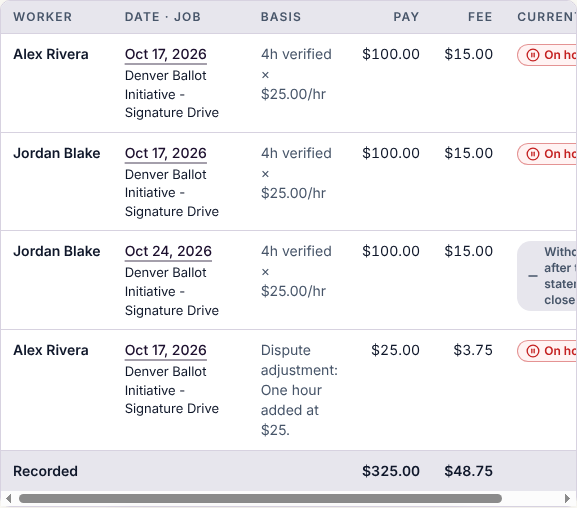
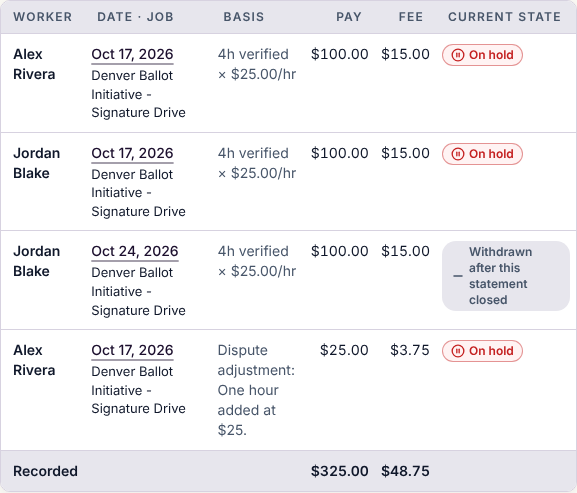
Evidence: statement fits from 640; the dock query without the hover condition
Claude-Session: https://claude.ai/code/session_01M5jonG7B326Ty4GJKyZ5gK

diff --git a/docs/design/hero-board/evidence/tablet-nav-2026-11-09/README.md b/docs/design/hero-board/evidence/tablet-nav-2026-11-09/README.md
@@ -8,7 +8,7 @@ All evidence is the running app on the local test databases, in Chromium with to
 
 Between 1024 and 1279 the worker's top bar shows icons only. Their names are tooltips, which a finger never sees, and Jobs and Work were both briefcases (Work is now Footprints, section 4).
 
-Under `(hover: none) and (pointer: coarse)` the worker now keeps the labelled dock in that band. The top bar's links step aside; the header keeps its bell, settings and theme. Elsewhere nothing changes:
+Under `(pointer: coarse)` the worker now keeps the labelled dock in that band. The top bar's links step aside; the header keeps its bell, settings and theme. Elsewhere nothing changes:
 - mouse desktops keep the #113 top bar;
 - from 1280, every pointer gets the labelled top bar;
 - organization roles keep their rail.
@@ -57,6 +57,7 @@ The More sheet used to be hidden from 1024 by a width rule. On a touch tablet, M
 - **An iPad with a trackpad.** Not tested. Safari may keep reporting `none`/`coarse` (dock) or switch to `hover`/`fine` (top bar, whose tooltips the trackpad can show). Either way there is navigation.
 - **Split View, Slide Over and Stage Manager.** A window narrower than 1024 already had the phone dock; other widths follow the same rules.
 - **`hover: none` with `pointer: fine`.** The query fails, so the top bar shows.
+- **Touch tablets that report hover (Nov 10).** The query first also asked for `hover: none`. Chromium on some Samsung tablets reports `hover: hover` on a touchscreen ([MDN's note on `hover`](https://developer.mozilla.org/docs/Web/CSS/@media/hover), [a write-up](https://www.ctrl.blog/entry/css-media-hover-samsung.html)), which would have left them on the icon-only top bar. The query now asks only for a coarse primary pointer. Not measured: Chromium here would not emulate a coarse pointer that hovers, so this rests on the rule's logic. Re-checked at `1d60de9`: with touch the dock shows and the top bar's links go; with a mouse the top bar stays.
 
 ### Not changed
 
@@ -132,12 +133,12 @@ The heights in this table come from a console run of `for-astra/statement-layout
 - A correction's reference and a receipt number never break at their hyphens.
 - The total row spans three columns. The CSV is unchanged, with its own `project` column.
 
-Measured with `statement-after.mjs` at `461f225` (`statement/statement-after.json`). Print is measured after the print rules apply.
+Measured with `statement-after.mjs` at `1d60de9` (`statement/statement-after.json`). Print is measured after the print rules apply.
 
 | Width | Table | Current state | Job title |
 | :--- | :--- | :--- | :--- |
 | 390 (stacked rows) | Fits | Visible | 1 line |
-| 640 | Overflows by 67px (145 before) | Behind the sideways scroll | 3 lines |
+| 640 | Fits (145px over before) | Visible | 3 lines |
 | 768 | Fits (2px over before) | Visible | 3 lines (6 before); 470px tall (637 before) |
 | 1024 | Fits | Visible | 2 lines (5 before) |
 | 1440 | Fits | Visible | 2 lines (5 before) |
@@ -146,7 +147,7 @@ Measured with `statement-after.mjs` at `461f225` (`statement/statement-after.jso
 The job line keeps a 7rem minimum. An 8rem minimum gave two-line titles at 768 but pushed Current state 3px past the box in print. With no minimum, titles took three lines even at 1024 and 1440.
 
 **Still imperfect:**
-- **640 to 704px.** The sweep in `statement-after.json` shows Current state needs the table's sideways scroll there; from 712 the table fits. That band is narrower than any tablet in portrait. Stacking this table's rows up to about 46rem would end it.
+- **640 to 735px (fixed Nov 10).** Current state needed the table's sideways scroll from 640 to 704. On screen in that band the cells are now tighter (6px a side, 12px elsewhere) and a worker's name may wrap, as it does on a phone. The sweep in `statement-after.json` shows no overflow at any width from 640 to 736. Print is unchanged.
 - **Untested cases.** The test database has one job, no "Other pay" lines, no corrections, and only light mode here. The cross-reviewer simulated them in the browser:
   - a 79-character title takes 5 lines at 768 and 4 at 1024;
   - "Other pay" shows "—" with "Other pay" under it;
